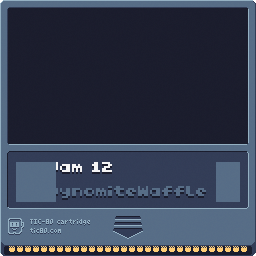
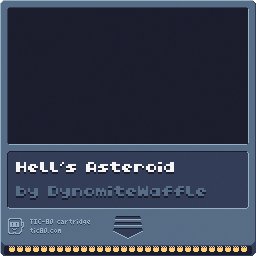
Started Menu screen

Changed region(s): [[0.0625, 0.625, 0.6875, 0.8125], [0.8438, 0.625, 0.9375, 0.8125]]

diff --git a/src/main.ts b/src/main.ts
@@ -1,4 +1,4 @@
-// title:   GB Jam 12
+// title:   Hell's Asteroid
 // author:  DynomiteWaffle
 // desc:   	made for GB Jam 12
 // site:    dynomitewaffle.github.io
@@ -46,15 +46,23 @@ function boot_animation() {
     // poke4(0x3FF0*2)
     // logos
     map(220, 119, 20, 17, 40)
-    if (time() > 3000) {    
-        scene = game_scene
+    if (time() > 1500) {    
+        scene = menu_scene
         // vbank(0)
         sync(32, 0, false)// set to game colors
     }
 }
 function menu_scene() {
-    // start timer/game
-    start_time = time()
+    spr(16,40+16,0,-1,1,0,0,16,16)
+    map(205, 119, 20, 17, 40)
+
+    if (btn(4)) {
+        // start timer/game
+        start_time = time()
+
+        scene = game_scene
+        
+    }
 }
 function game_scene() {
     //d right

diff --git a/bin/out.js b/bin/out.js
@@ -1,4 +1,4 @@
-// title:   GB Jam 12
+// title:   Hell's Asteroid
 // author:  DynomiteWaffle
 // desc:   	made for GB Jam 12
 // site:    dynomitewaffle.github.io
@@ -36,15 +36,20 @@ function boot_animation() {
     // poke4(0x3FF0*2)
     // logos
     map(220, 119, 20, 17, 40);
-    if (time() > 3000) {
-        scene = game_scene;
+    if (time() > 1500) {
+        scene = menu_scene;
         // vbank(0)
         sync(32, 0, false); // set to game colors
     }
 }
 function menu_scene() {
-    // start timer/game
-    start_time = time();
+    spr(16, 40 + 16, 0, -1, 1, 0, 0, 16, 16);
+    map(205, 119, 20, 17, 40);
+    if (btn(4)) {
+        // start timer/game
+        start_time = time();
+        scene = game_scene;
+    }
 }
 function game_scene() {
     //d right
